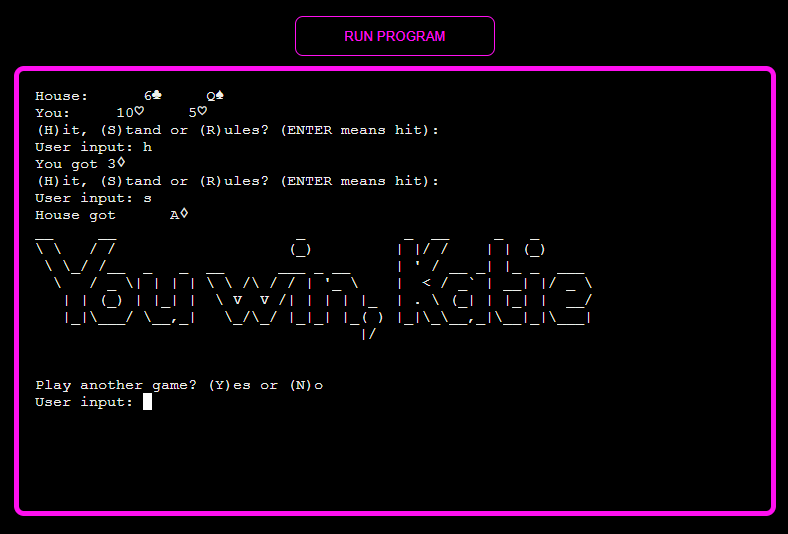
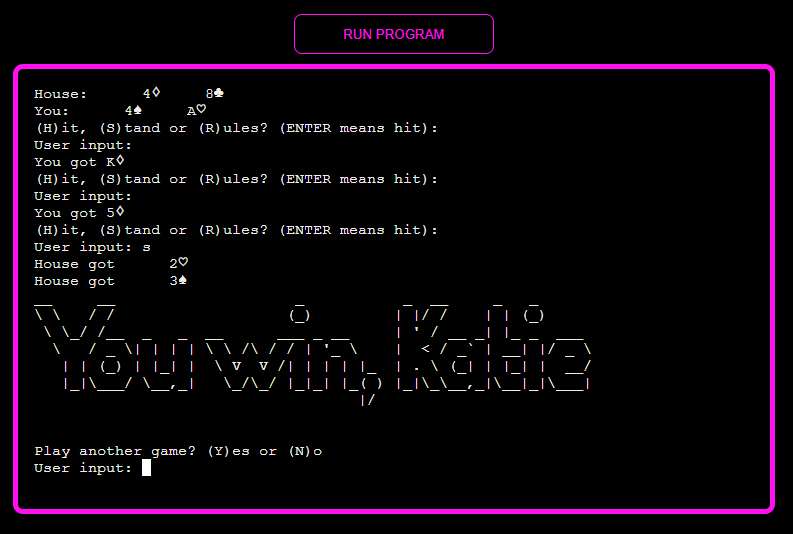
Write a paragraph for the win screen in README

diff --git a/README.md b/README.md
@@ -83,11 +83,11 @@ The rules function prints 5 basic rules of the game to the screen. The game pres
 
 ### Win screen
 
-You win screenshot below
+In the screenshot below the player chose to stand on 20 and the house had to stand on 17 therefore, the player won and a notification saying 'you win (player name)' was shown
 
-![You win screen image](docs/house_bust_you_win_ss.PNG)
+![You win screen image](docs/you_win_ss.PNG)
 
-House bust you win screenshot below
+In the screenshot below the house got a large number card and went over 21. The house bust. A notification then appears displaying 'house bust, you win (player name)'.
 
 ![House bust you win screen image](docs/house_bust_you_win_ss.PNG)
 
